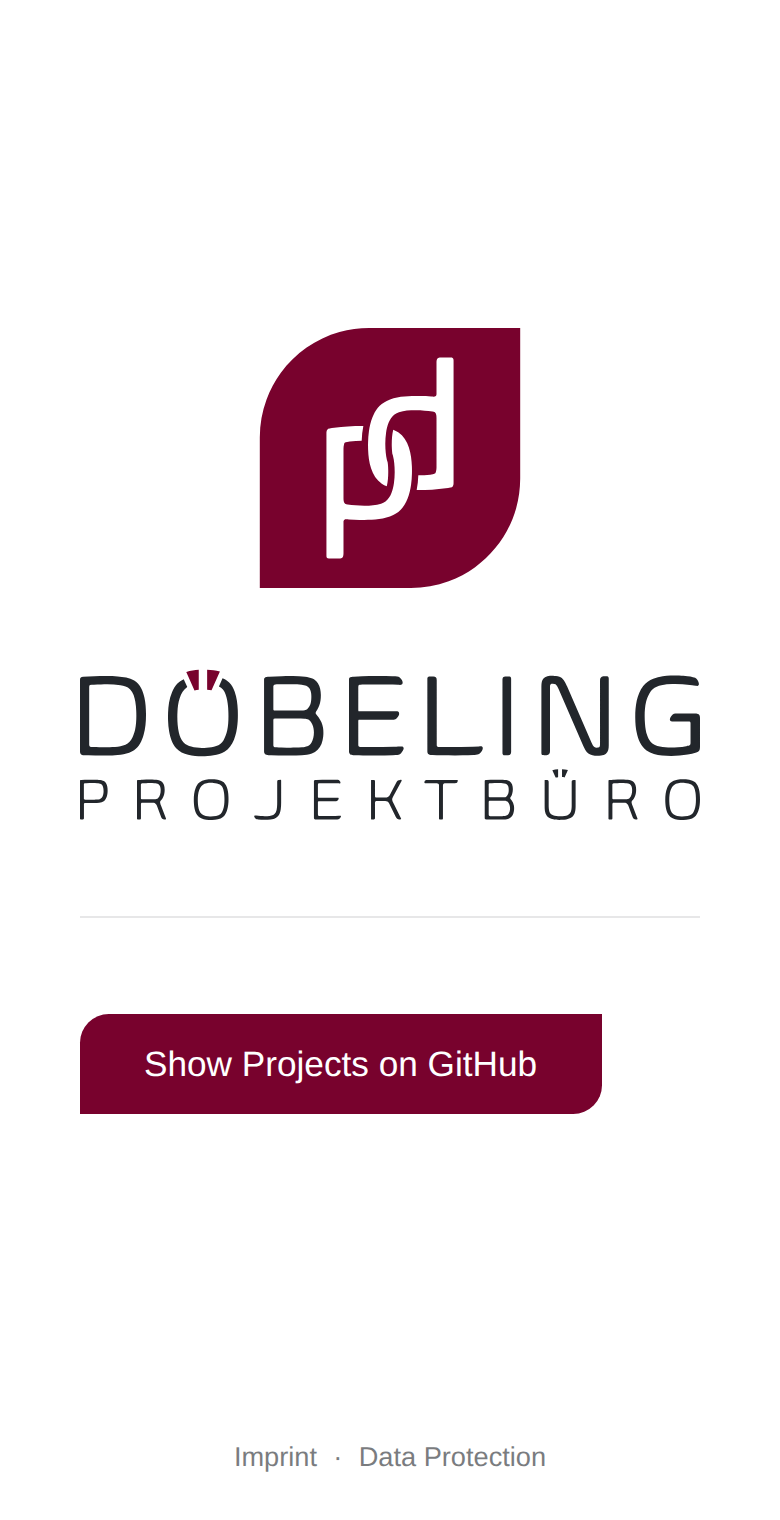
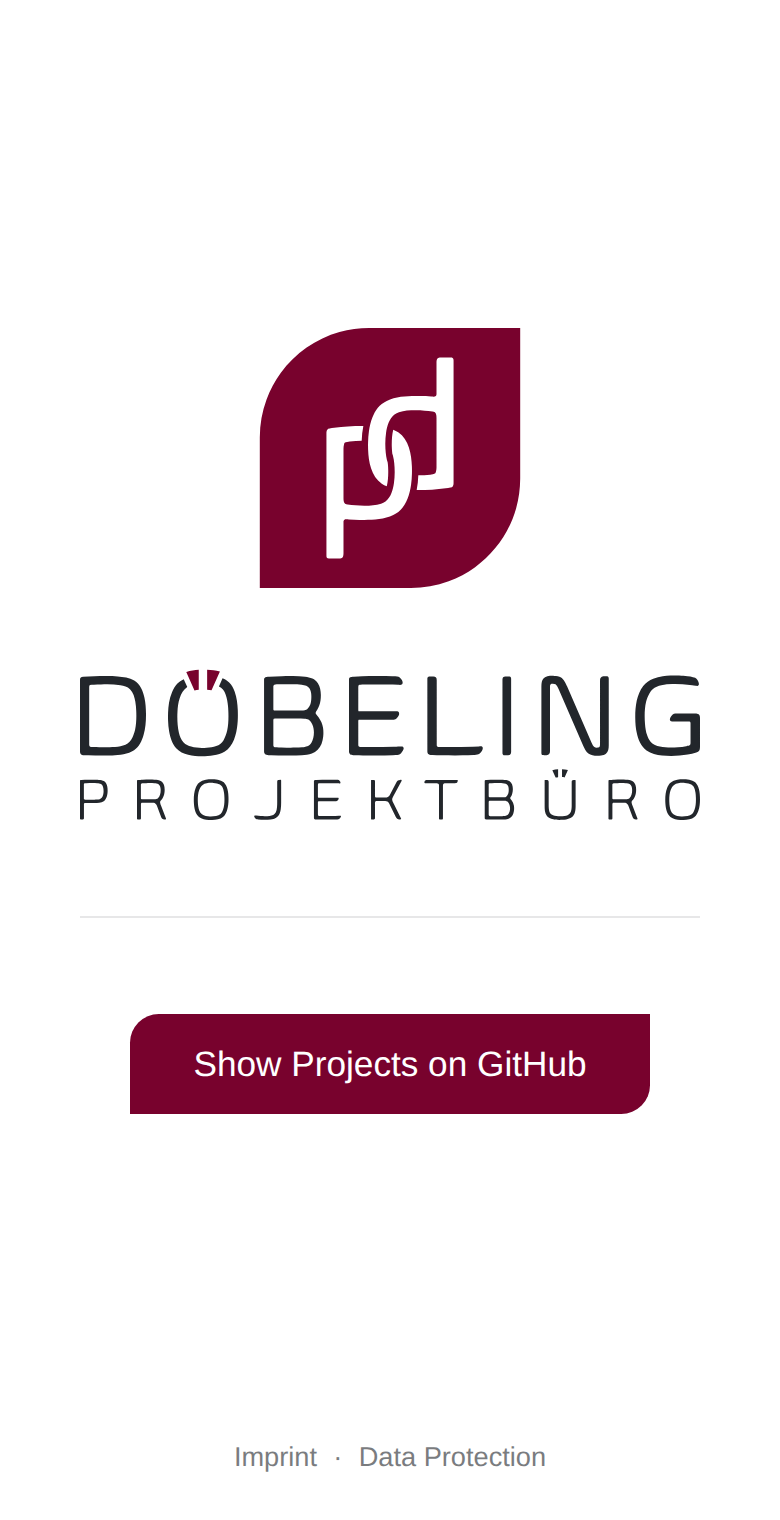
Landing page: centre the button in the stacked (mobile) layout

Changed region(s): [[0.0923, 0.6493, 0.8308, 0.7421]]

diff --git a/index.html b/index.html
@@ -70,6 +70,8 @@
         @media (max-width: 640px) {
             /* stacked logo: the wordmark starts on the logo's left edge */
             .brand { width: min(316px, calc(100vw - 5rem)); --wordmark-left: 0%; }
+            /* stacked logo is symmetric, so the button sits on its centre axis */
+            .brand .cta { align-self: center; margin-left: 0; }
         }
         /* Divider: light grey line across the wordmark's width, outside the logo's clear space */
         .divider {
